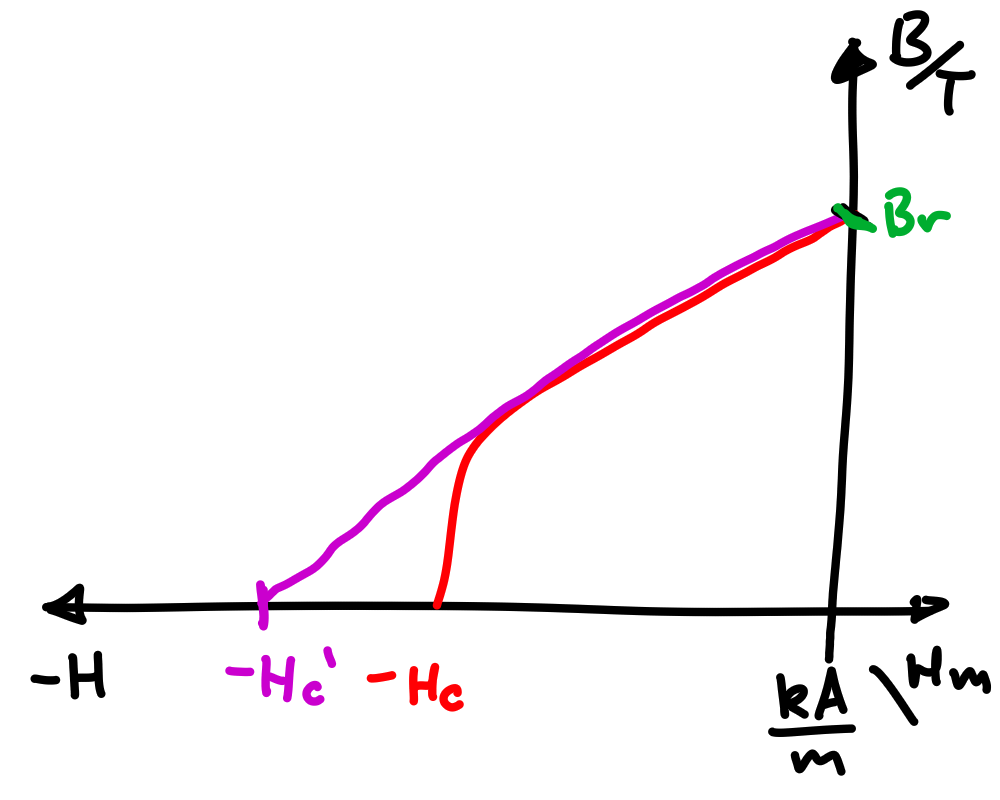
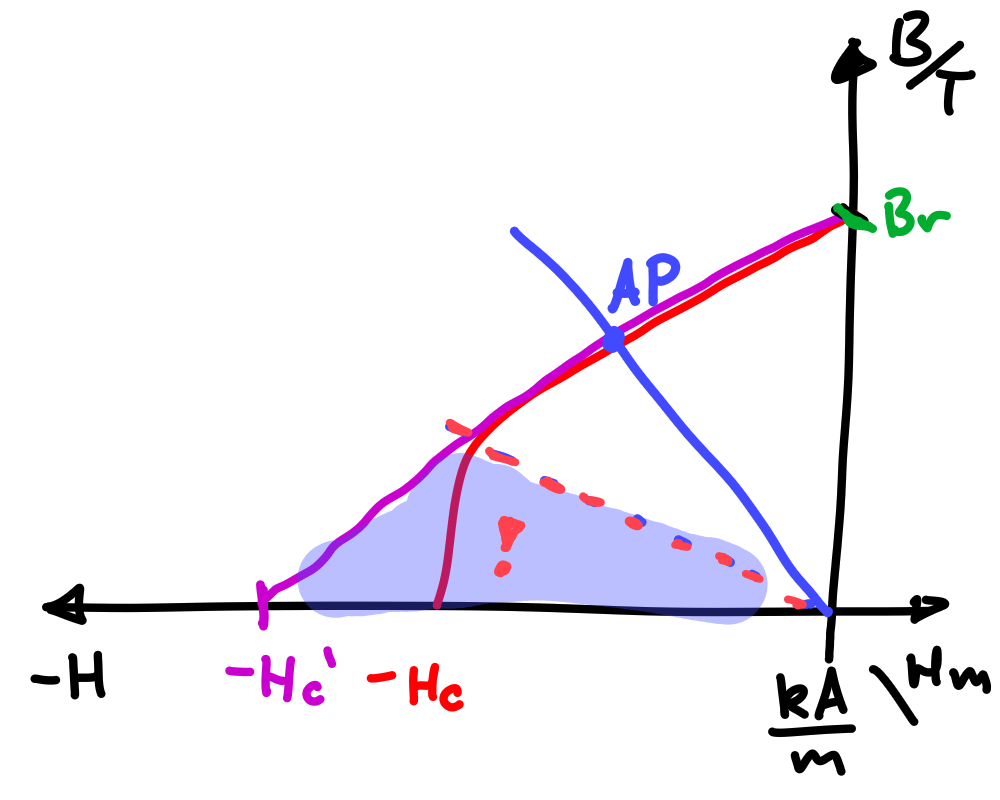
vault backup: 2025-05-07 21:56:04

diff --git a/Elektrotechnik/Maschinen/Magnetkreis.md b/Elektrotechnik/Maschinen/Magnetkreis.md
@@ -29,14 +29,14 @@ Ein Magnetkreis ist die schematische Darstellung einer Zusammenschaltung aus mag
 
 ## Wichtige Kenngrößen und Zusammenhänge
 
-|                   |                im magnetischen Kreis                 |             im elektrischen Kreis             |                     |
-| ----------------: | :--------------------------------------------------: | :-------------------------------------------: | :------------------ |
-|       magn. Fluss |                        $\Phi$                        |                      $I$                      | Strom               |
-| magn. Flussdichte |             $\mathbf{B}=\mu \mathbf{H}$              |        $\mathbf{J}=\sigma \mathbf{E}$         | Stromdichte         |
-|     Permeabilität |                        $\mu$                         |                   $\sigma$                    | Leitwert            |
-|         Reluktanz |           $\mathfrak{R}=\dfrac{l}{\mu A}$            |            $R=\dfrac{l}{\sigma A}$            | Impedanz            |
-|    magn. Spannung |              $V = \mathfrak{R} \cdot I$              |                 $U=R\cdot I$                  | Spannung            |
-|      Durchflutung | $\Theta = \oint \mathbf{H}\cdot\mathrm{d}\mathbf{s}$ | $u=\oint \mathbf{E}\cdot\mathrm{d}\mathbf{s}$ | induzierte Spannung |
+|                                           |                im magnetischen Kreis                 |            im elektrischen Kreis             |                     |
+| ----------------------------------------: | :--------------------------------------------------: | :------------------------------------------: | :------------------ |
+| [magn. Fluss](../Magnetischer%20Fluss.md) |                        $\Phi$                        |                     $I$                      | Strom               |
+|                         magn. Flussdichte |             $\mathbf{B}=\mu \mathbf{H}$              |        $\mathbf{J}=\sigma \mathbf{E}$        | Stromdichte         |
+|      [Permeabilität](../Permeabilität.md) |                        $\mu$                         |                   $\sigma$                   | Leitwert            |
+|                 [Reluktanz](Reluktanz.md) |           $\mathfrak{R}=\dfrac{l}{\mu A}$            |           $R=\dfrac{l}{\sigma A}$            | Impedanz            |
+|                            magn. Spannung |              $V = \mathfrak{R} \cdot I$              |                 $U=R\cdot I$                 | Spannung            |
+|        [Durchflutung](../Durchflutung.md) | $\Theta = \oint \mathbf{H}\cdot\mathrm{d}\mathbf{s}$ | $u=\int \mathbf{E}\cdot\mathrm{d}\mathbf{s}$ | induzierte Spannung |
 
 ## Entwurf
 
@@ -79,7 +79,7 @@ $$2 H_{\delta}\delta + H_{R}l_{R} + H_{S} l_{S} = 2Ni$$
 
 3. Beziehungen Anwenden
     - [Materialgleichung](Permeabilität.md) $\mathbf{B}=\mu \cdot \mathbf{H}$
-    - [Magnetischer Fluss](Magnetischer%20Fluss.md): $\Phi = \int _{A}\mathbf{B}\cdot \mathrm{d}\mathbf{a} = B\cdot A$. Dazu mit den Querschnittsflächen jeder Sektion des Modells erweitern
+    - [Magnetischer Fluss](Magnetischer%20Fluss.md): $\Phi = \int _{A}\mathbf{B}\cdot \mathrm{d}\mathbf{a} = B\cdot A$. Dazu mit den Querschnittsflächen $A$ jeder Sektion des Modells erweitern
 
 $$
 \begin{align}
@@ -94,10 +94,11 @@ $$
 $$
 \begin{align}
 2\Phi_{\delta}\mathfrak{R}_{\delta}+\Phi_{R}\mathfrak{R}_{R}+\Phi_{S}\mathfrak{R}_{S} &= 2Ni \\
-2V_{\delta}+ V_{R}+V_{S} &=2Ni
 \end{align}
 $$
 
 Mit dieser Anschaulichen Maschengleichung der magnetischen Spannungen kann ein Schaltbild für den Magnetkreis Konstruiert werden.
+
+> [!success] Oft hat man mehrere Maschen in einem Mage
 
 ![invert_dark|400](assets/MagnEquiv.png)

diff --git a/Elektrotechnik/Durchflutung.md b/Elektrotechnik/Durchflutung.md
@@ -21,6 +21,15 @@ Gefolgt aus der [1. Maxwellgleichung](Maxwell.md#^MW1) wird die Durchflutung als
 > [!def] **D1 - DURF)** Die durch alle Erregerspulen induzierte Feldstärke breitet sich über den gesamten geschlossenen Magnetkreis der Länge $L$ aus und ergibt die Durchflutung $\Theta$.
 > $$\Theta :=\oint_{L}\mathbf{H}\cdot \mathrm{d}\mathbf{s} = \sum_{v=1}^{N}i_{v}$$
 
-Bei einer einfachen Spule: $\Theta = N\cdot i$
+- Bei einer einfachen Spule ([Elektromagnet](../Physik/Elektromagnet.md)): $\Theta = N\cdot i$
+- Beim [Permanentmagnet](../Physik/Permanentmagnet.md): $\Theta_{C}' = H_{C}'l_{\text{pm}}$
 
-Oft liefert das Ringintegral der Durchflutung die Maschengleichung als Summe aller magnetschen Spannungsabfälle an Verbrauchern in einem [Magnetkreis](Maschinen/Magnetkreis.md).
+Oft liefert das Ringintegral der Durchflutung die Maschengleichung als Summe aller magnetischen Spannungsabfälle an Verbrauchern in einem [Magnetkreis](Maschinen/Magnetkreis.md).
+
+Man kann die Durchflutung deshalb als magnitische Spannung sehen. Daher gilt auch
+
+$$ \Theta = \mathfrak{R}\Phi $$
+
+Mit den magnetischen Größen
+- [Reluktanz](Maschinen/Reluktanz.md) $\mathfrak{R}$
+- [Magnetischer Fluss](Magnetischer%20Fluss.md) $\Phi$

diff --git a/Physik/Permanentmagnet.md b/Physik/Permanentmagnet.md
@@ -30,6 +30,12 @@ Man rechnet oft in der Physik mit positiven H werten (konvention) deshalb
 
 ## Linearisierung im Arbeitspunkt
 
+Für Betreibt man den Magneten im Linearen Bereich, kann man das Materialgesetz anwenden.
+
+$$ B_r = \mu_{0}\mu_{r}H_{C}' \implies B_{m} = \mu_{0}\mu_{r}(H_{C}' \mp H_{m}) $$
+
+$H_{C}'$ ist konstant. Daher ist zu beachten, dass durch eine externe belastung $H_{m}$ des Magneten niemals eine Flussdichte unterschritten wird, in der die Magnetkennlinie den linearen Bereich verlässt. Sonst tritt eine unmkehrbare Entmagnetisierung des Permanentmagneten auf.
+
 ## Kennlinie
 
 | Gesamte Magnethysteresekurve                 | **Lineareisierte** Entmagnetisierungs Kennlinie (2. Quadrant) |
